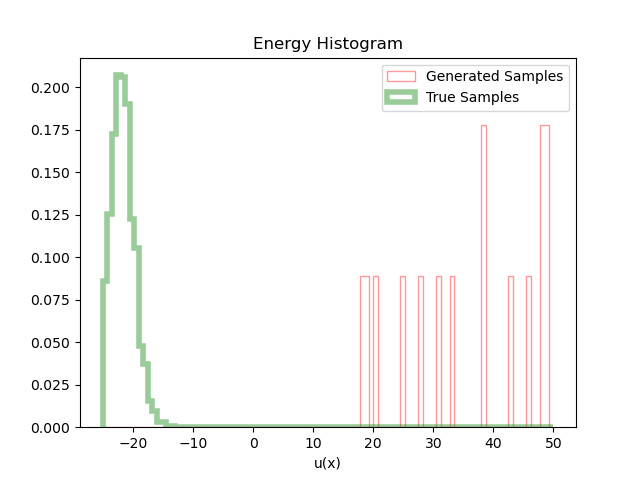
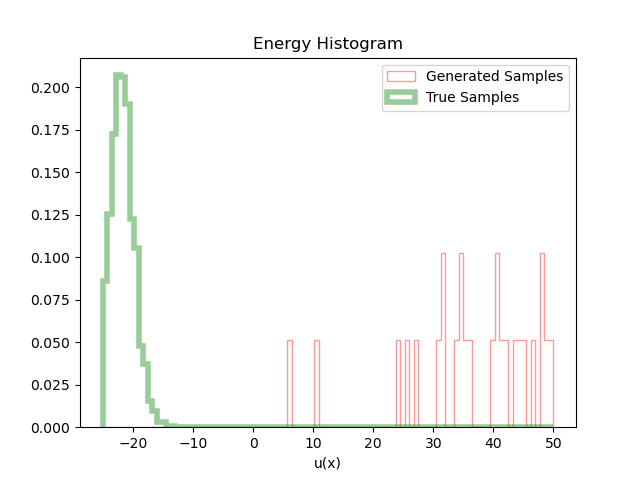
final plots second trial

diff --git a/eval_and_plot.py b/eval_and_plot.py
@@ -156,7 +156,7 @@ def plot_generating_flow(args, data, flow, prior, target, latent, samples, model
     
     # Changes based on the flow type (Diffeq for kernel/new and FFJORD for egnn) 
     if "kernel" or "new" in args.model:
-        x, dlogp = flow(latent, inverse=False)
+        x, dlogp = flow(latent)
         x = x.view(samples, -1)
     else:
         sampling = True
